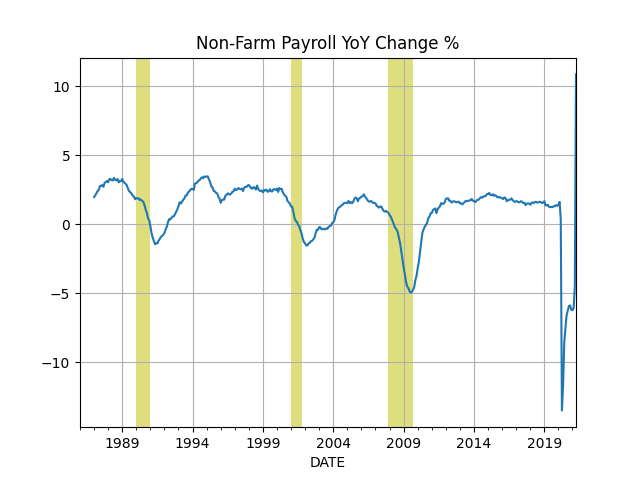
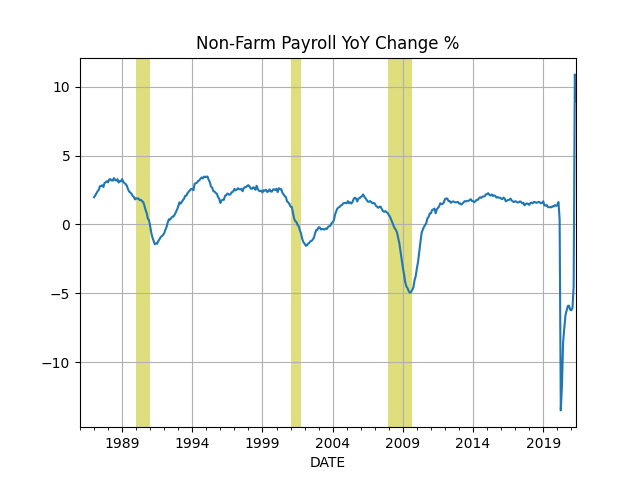
-

diff --git a/en/2019/05/stats.md b/en/2019/05/stats.md
@@ -162,13 +162,13 @@ plt.savefig('nfp.png')
 ```text
             PAYEMS     nfpyoy
 DATE                         
-2020-10-01  142545  -5.925794
 2020-11-01  142809  -5.896888
 2020-12-01  142503  -6.198040
 2021-01-01  142736  -6.239079
 2021-02-01  143272  -6.065315
-2021-03-01  144042  -4.506762
-2021-04-01  144308  10.868847
+2021-03-01  144057  -4.496818
+2021-04-01  144335  10.889591
+2021-05-01  144894   8.947772
 ```
 
 ![](nfp.png)
@@ -223,10 +223,10 @@ plt.savefig('icsa.png')
 ```text
               ICSA
 DATE              
-2021-05-01  507000
 2021-05-08  478000
 2021-05-15  444000
-2021-05-22  406000
+2021-05-22  405000
+2021-05-29  385000
 ```
 
 ![](icsa.png)
@@ -257,11 +257,11 @@ plt.savefig('unemploy.png')
 ```text
             UNRATE  U6RATE  REAL_UNRATE  REAL_UNEMP_LEVEL
 DATE                                                     
-2020-12-01     6.7    11.7    13.173317           21152.0
 2021-01-01     6.3    11.1    12.527394           20064.0
 2021-02-01     6.2    11.1    12.451704           19949.0
 2021-03-01     6.0    10.7    12.128327           19473.0
 2021-04-01     6.1    10.4    11.852126           19080.5
+2021-05-01     5.8    10.2    11.527325           18551.5
 ```
 
 ![](unemploy.png)

diff --git a/en/2019/05/confstats.md b/en/2019/05/confstats.md
@@ -168,7 +168,7 @@ for index, row in df4.iterrows():
 m.save('conflict-out.html')
 ```
 
-The output of the code above is here
+The output of the code is below
 
 [Output](conflict-out.html)
 
